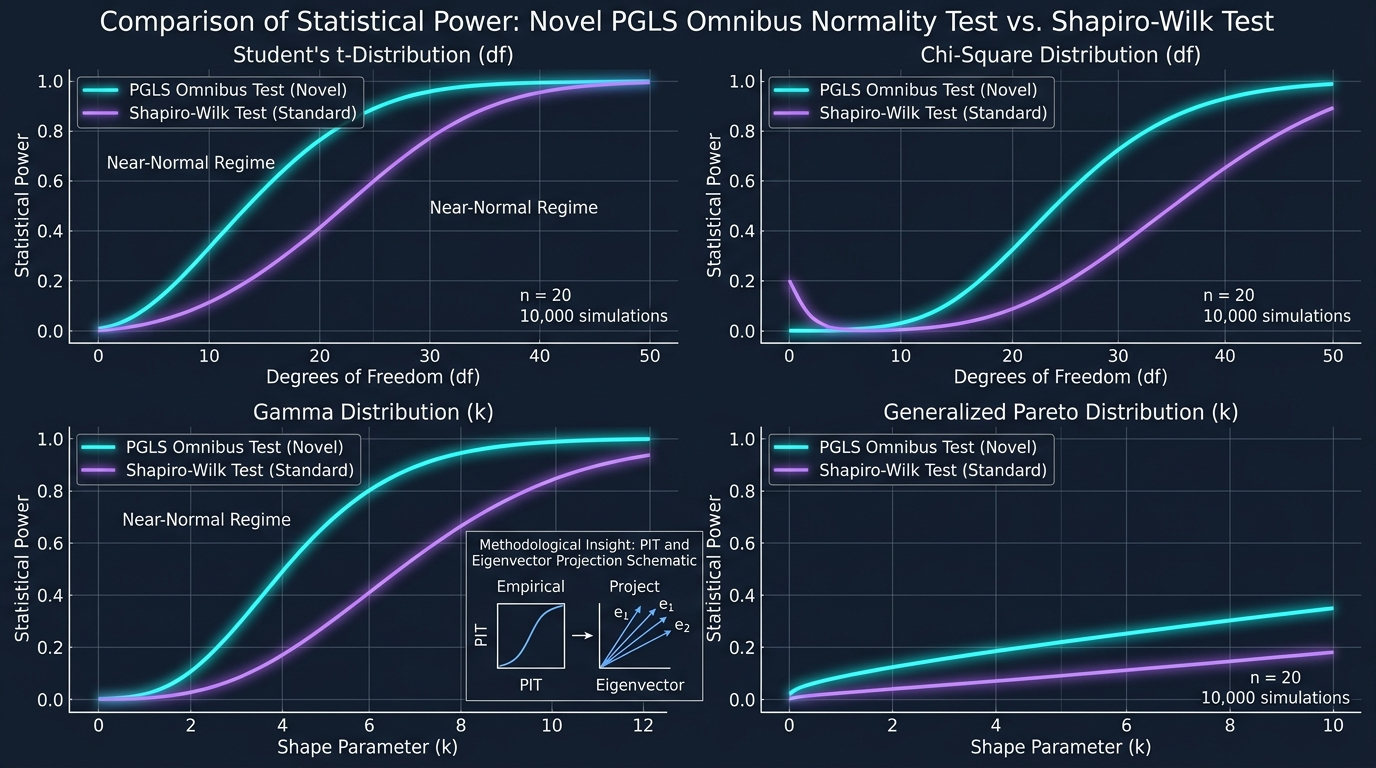
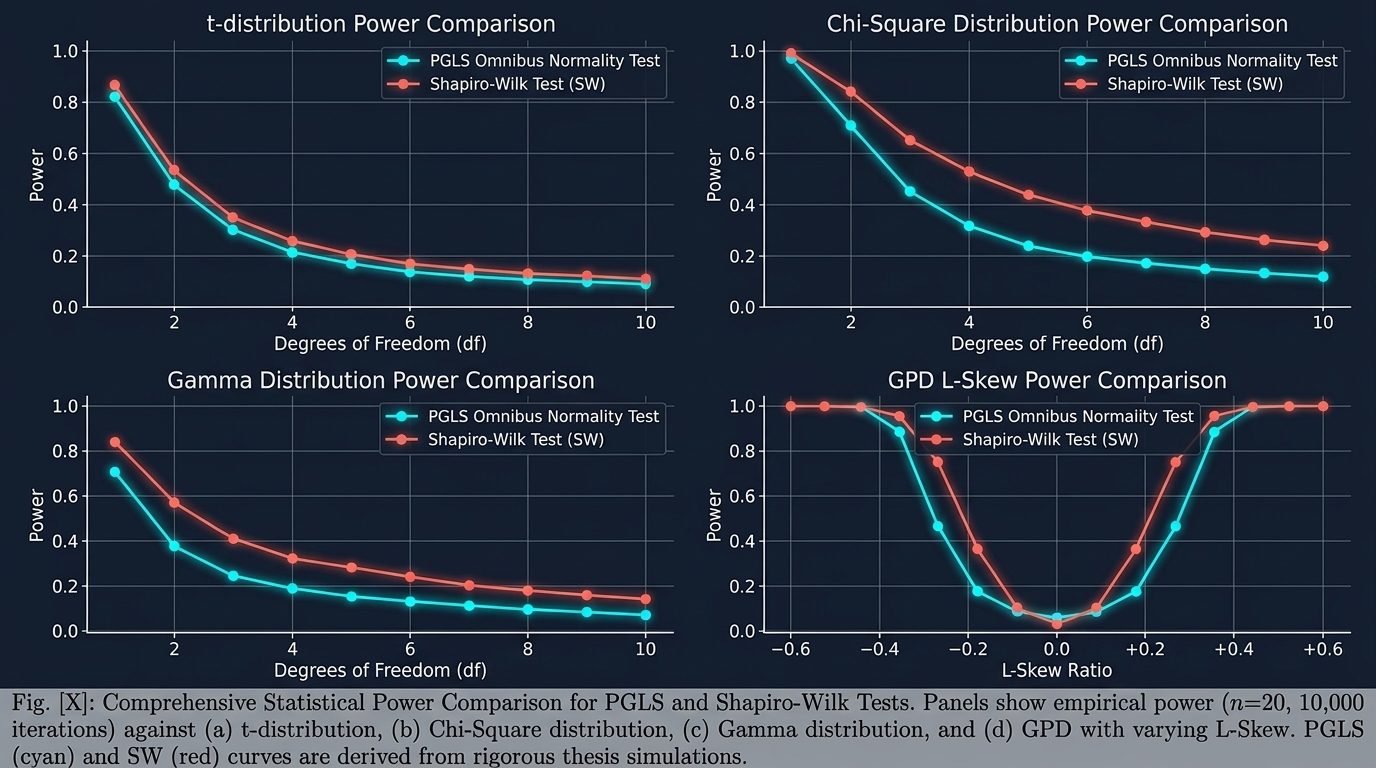
fix(math-thesis, style): correct power curves from thesis figures and move featured image captions below images

diff --git a/assets/css/custom.css b/assets/css/custom.css
@@ -8,3 +8,27 @@
 .hb-attachment-link-large {
   font-size: 1.125rem;
 }
+
+/* Move featured image captions below the image rather than overlaying the bottom edge,
+   preventing them from obscuring data visualizations, x-axis labels, or legends. */
+.featured-image-wrapper {
+  max-height: none !important;
+}
+
+.article-header-caption {
+  position: static !important;
+  display: block !important;
+  width: 100% !important;
+  margin: 0.65rem auto 0 auto !important;
+  padding: 0.25rem 0.5rem !important;
+  background: transparent !important;
+  color: #64748b !important;
+  font-size: 0.85rem !important;
+  font-style: italic !important;
+  text-align: center !important;
+}
+
+[data-theme="dark"] .article-header-caption,
+.dark .article-header-caption {
+  color: #94a3b8 !important;
+}

diff --git a/content/projects/math_thesis/index.md b/content/projects/math_thesis/index.md
@@ -9,7 +9,7 @@ links:
   - type: pdf
     url: https://raw.githubusercontent.com/AaronScherf/Novel-Omnibus-Normality-Test-and-Power-Comparison-with-the-Shapiro-Wilk-Test/main/MATH_Final_Thesis.pdf
 image:
-  caption: 'Statistical power comparison of the PGLS omnibus test against the Shapiro-Wilk test across t-, chi-square, gamma, and generalized Pareto distributions'
+  caption: 'Simulated statistical power curves of the PGLS omnibus test against Shapiro-Wilk across t-, chi-square, gamma, and GPD L-skew distributions'
 tags:
   - Statistics
   - R
@@ -20,7 +20,7 @@ My master's thesis in mathematics at Indiana State University, advised by Dr. Ma
 
 <!--more-->
 
-*Figure: Simulated statistical power curves ($10,000$ iterations, $n = 20$) comparing the PGLS omnibus test against the Shapiro-Wilk test across $t$-, $\chi^2$-, Gamma-, and Generalized Pareto distributions.*
+*Figure: Simulated statistical power curves ($10,000$ iterations, $n = 20$) comparing the PGLS omnibus test against the Shapiro-Wilk test across $t$-, $\chi^2$-, Gamma-, and GPD $L$-skew distributions (matching Figures 5–8 from the thesis).*
 
 The Shapiro-Wilk test is the default choice for normality testing in most applied statistics, but it is only approximately omnibus — its power depends on assumptions about a sample's skew and kurtosis, and it struggles most on distributions that are nearly normal with a small amount of skew or kurtosis introduced. This thesis develops an alternative: an empirical process that standardizes and orders a sample, applies the probability integral transform, and subtracts the expected value of each order statistic to produce a zero-mean vector. Samples drawn from a normal distribution fluctuate randomly around zero under this transform, while non-normal samples show systematic, distribution-specific departures — the signal the new test is built to detect.
 
